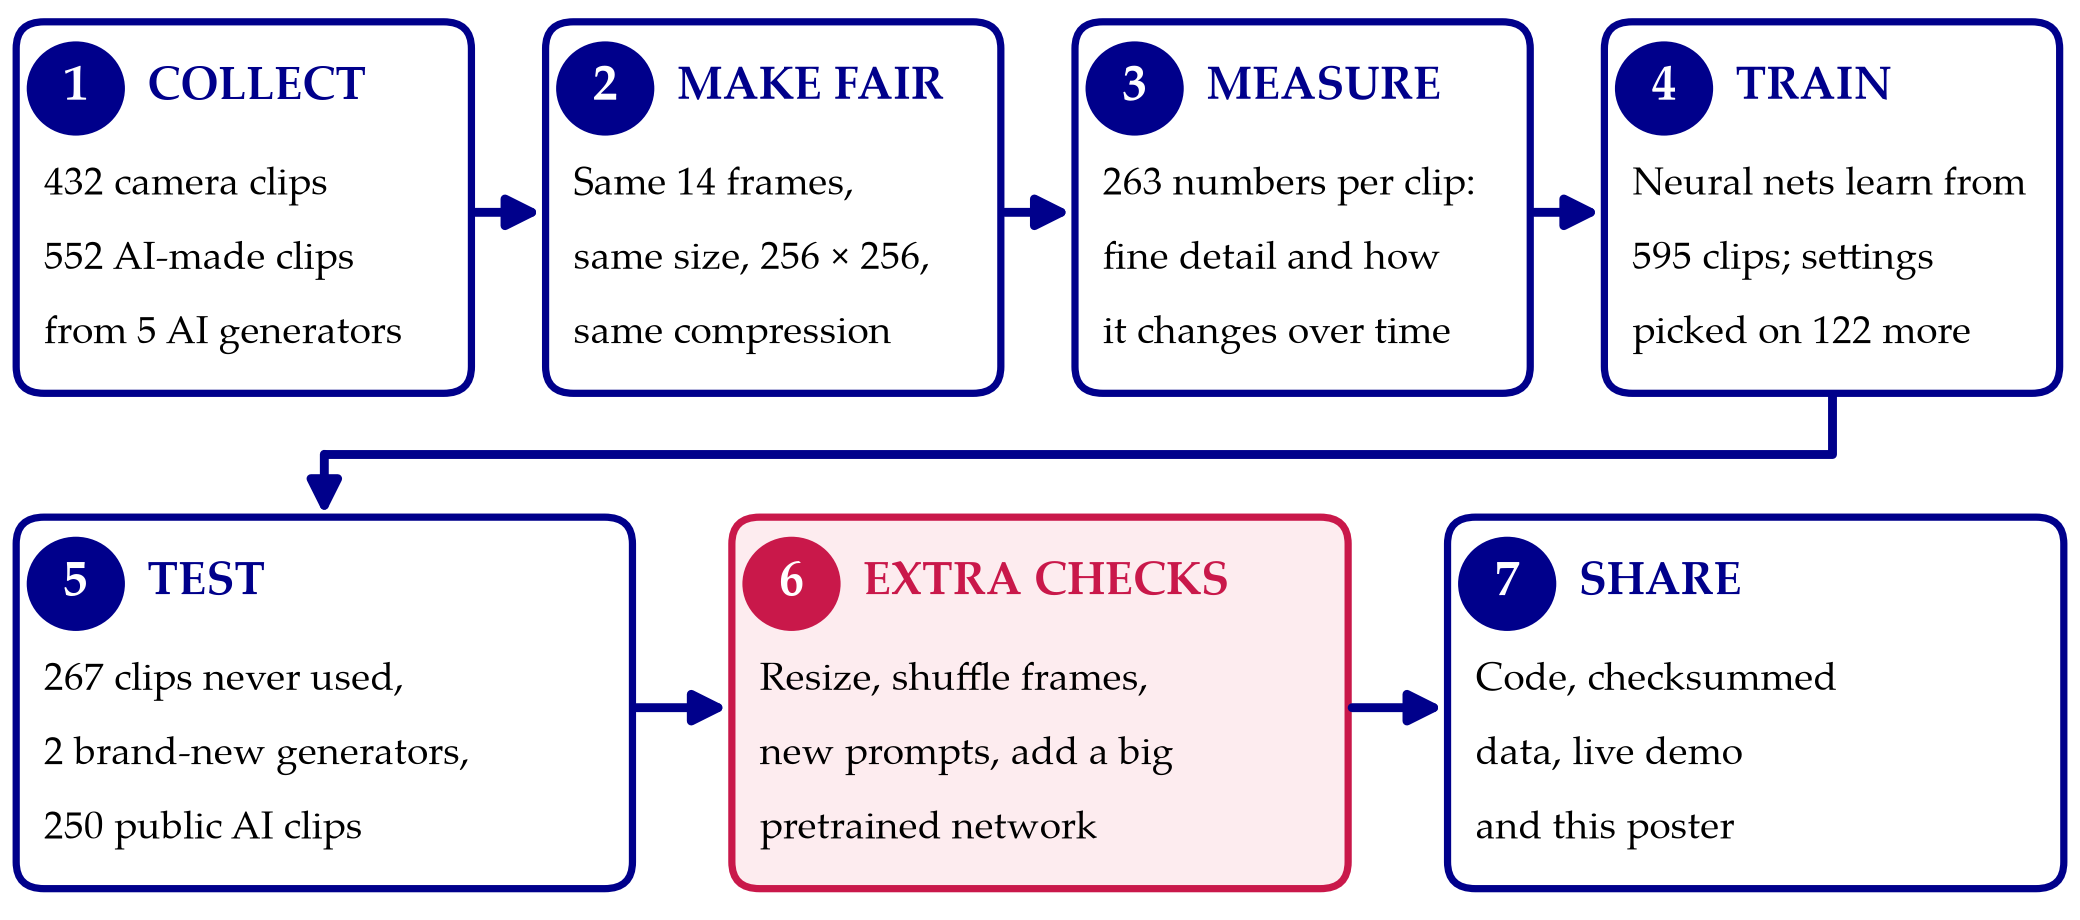
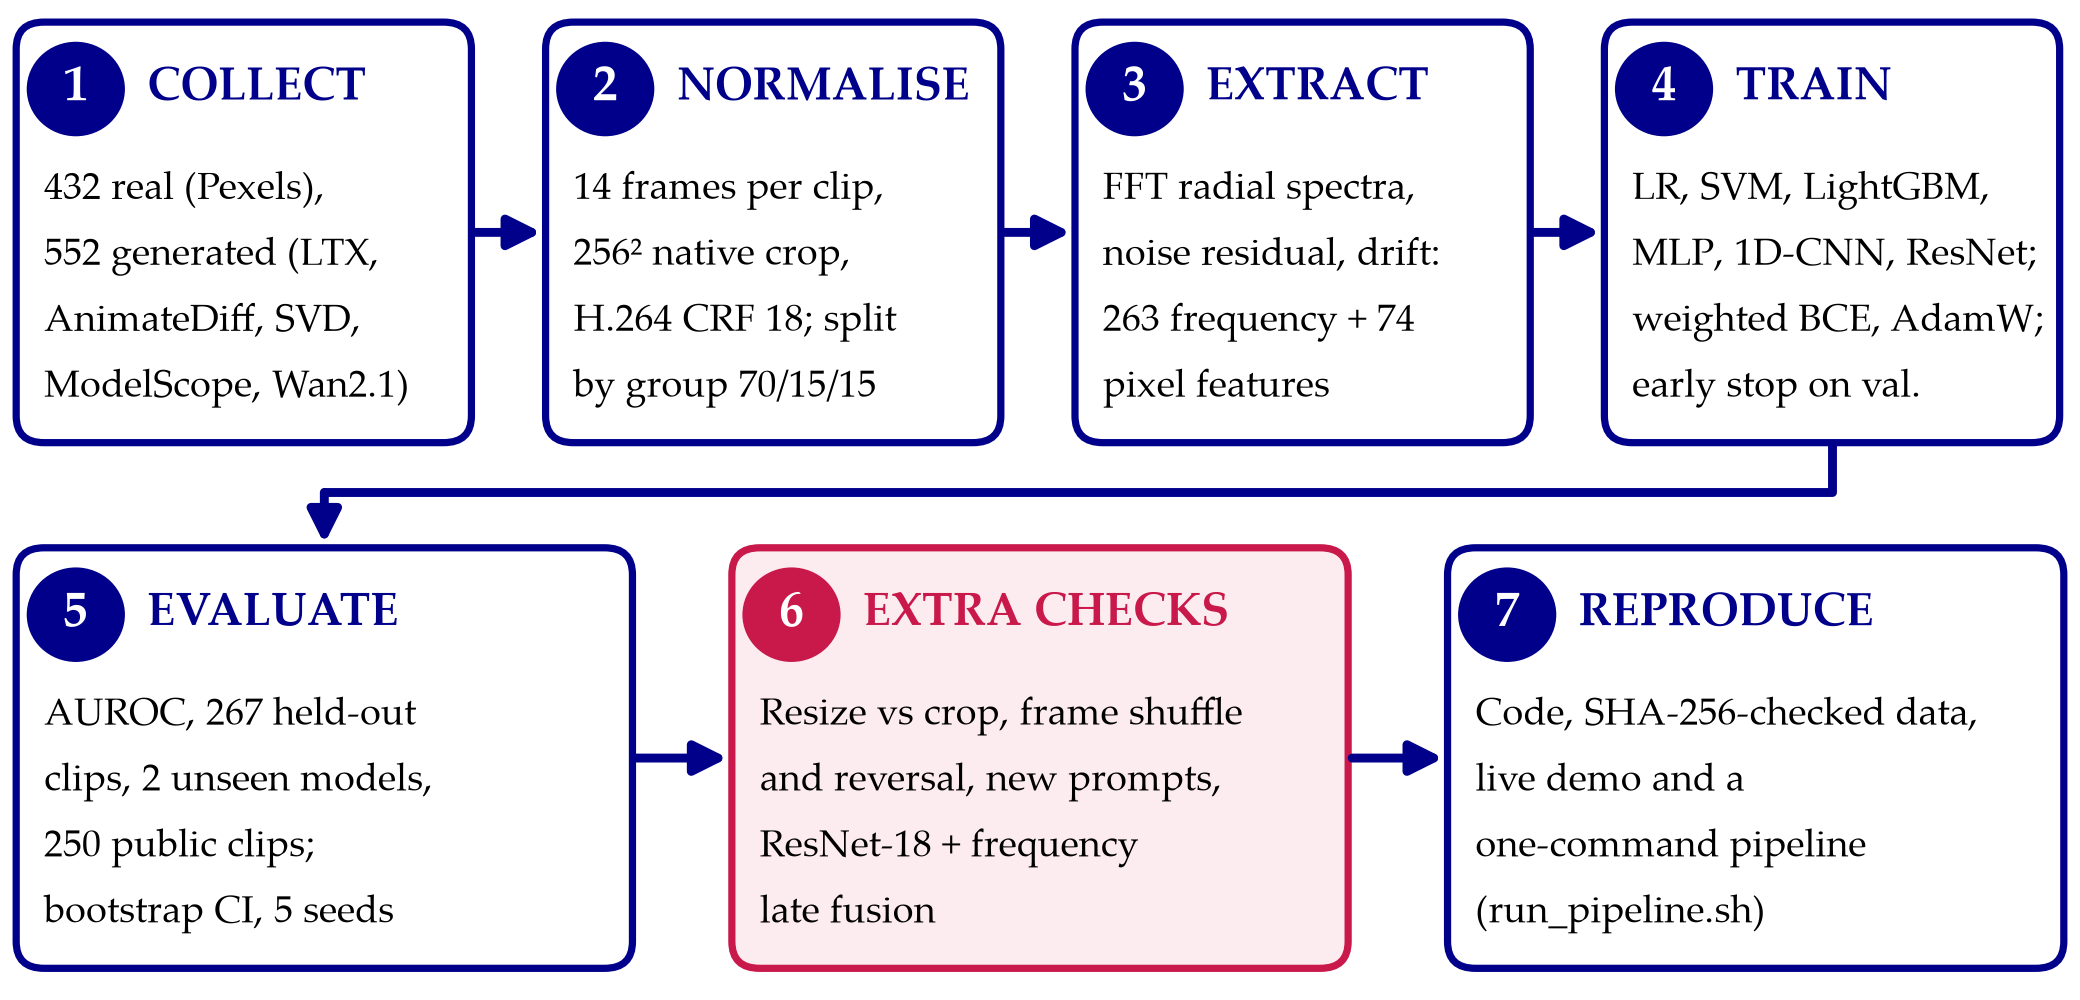
Poster: crisper abstract and key results, technical introduction, Figure 1 explained, contributions removed, more technical workflow

diff --git a/poster/poster.html b/poster/poster.html
@@ -75,47 +75,46 @@
 <div class="col">
 
 <h2>Abstract</h2>
-<p>AI video generators now make clips that look real. Can a computer still tell them from camera video, just by measuring the clip's
-<b>fine detail</b> and <b>how that detail changes from frame to frame</b>? We built a fair test set of 984 clips and compared this
-&ldquo;frequency&rdquo; approach with ordinary pixel statistics and with a large pretrained network. It works well on the generators it
-was trained on, but only partly on new ones.</p>
-<div class="take"><b class="h">Key results</b> (score = AUROC: 1.0 is perfect, 0.5 is a coin flip)
+<p>Generative video models (Sora, Veo, Wan) now produce clips that people cannot reliably tell from camera footage. We test whether two cues,
+the <b>spatial-frequency spectrum</b> of each frame and its <b>frame-to-frame drift</b>, detect diffusion-generated video better than pixel
+statistics. On a controlled set of 984 clips (432 real, 552 from five generators, two generators held out) we compare pixel, frequency and fused
+features on identical held-out clips. Frequency cues win on trained generators (AUROC 0.97 vs 0.89) but transfer only partly to new ones.</p>
+<div class="take"><b class="h">Key results</b>
+<div style="font-size:14pt;margin:0.5mm 0 1mm">AUROC = chance that a random AI clip is scored more &ldquo;AI-like&rdquo; than a random real clip: 1.0 is perfect, 0.5 is guessing.</div>
 <ol>
-<li>On generators we trained on, fine-detail features score <b>0.97</b>, plain pixel statistics <b>0.89</b>.</li>
-<li>On <b>brand-new generators</b> our scores fall to 0.64–0.82; the big pretrained network holds up better (0.90–0.93).</li>
-<li>Our extra tests show the clue is real (it needs real motion) but fragile (resizing or heavy compression erases it).</li>
+<li><b>Frequency beats pixels on trained generators:</b> 0.966 vs 0.889 (both together: 0.977). The gap of +0.075 has a 95 % interval of +0.02 to +0.15, so it is not luck.</li>
+<li><b>Transfer to new generators is only partial:</b> on ModelScope and Wan2.1 (never seen in training) our models score 0.64&ndash;0.82, while a fine-tuned ResNet-18 scores 0.90&ndash;0.93.</li>
+<li><b>The clue is real but fragile:</b> shuffling frames costs the time features 0.14&ndash;0.20, so they use real motion; resizing frames (&minus;0.07 to &minus;0.09) or heavy compression (&minus;0.2 to &minus;0.3) erases it.</li>
 </ol></div>
 
 <h2>Introduction</h2>
 <ul>
-<li><b>The problem:</b> tools like Sora, Veo and Wan make video that people cannot reliably tell from real footage, and a detector built for one generator often fails on the next.</li>
-<li><b>The idea:</b> every picture has coarse detail (big shapes) and fine detail (tiny texture and noise). Generators build video by cleaning up noise step by step, which changes the fine detail. A Fourier transform measures how much detail there is at each scale (Figure 1).</li>
-<li><b>The second clue is time:</b> in camera footage the fine detail changes naturally from frame to frame; generated video may flicker differently.</li>
-<li><b>Why neural networks:</b> these are hundreds of weak clues; a small network learns how to combine them.</li>
+<li><b>Task:</b> binary classification of a short video clip as camera-captured or generated by a diffusion model, from the pixels alone (no metadata, watermark or prompt).</li>
+<li><b>Relevance:</b> text-to-video diffusion models (Sora 2, Veo 3, Kling, Wan) have passed the point where people can reliably tell their output from real footage, and open models (LTX-Video, Wan2.1) put this capability in everyone&rsquo;s hands.</li>
+<li><b>Significance:</b> misinformation, fraud and tampered evidence need detectors. A detector tied to one generator&rsquo;s artefacts fails on the next release, so it must rest on cues that all generators share and be tested on generators it has never seen.</li>
+<li><b>Why frequency:</b> diffusion models synthesise frames by iterative denoising and up-sampling, which leaves systematic traces in the power spectrum (excess or missing energy at high spatial frequencies) and in how the spectrum drifts between frames (Figure 1) [1&ndash;5].</li>
+<li><b>Why deep learning:</b> the traces are spread over hundreds of weak, correlated features, and no hand-written rule separates them. Networks learn the decision boundary from data: an MLP on 263 spectral features and a 1D-CNN on the 2 &times; 14 &times; 48 radial-spectrum sequence, against pixel-statistics models and a fine-tuned ResNet-18 as baselines.</li>
 </ul>
-<figure>
-<img src="figs/fig_spectra.png" style="width:128mm">
-<figcaption><b>Figure 1:</b> Average &ldquo;detail map&rdquo; (Fourier spectrum) of 40 clips per source. Top left: real clips. The others show how each AI generator differs from real: blue = less fine detail than real, red = more. Each generator leaves its own fingerprint (* = never used in training).</figcaption>
-</figure>
-<p>Our contributions:</p>
-<ul>
-<li>A <b>fair dataset</b>: real and AI clips are cut and compressed identically, so only their origin differs.</li>
-<li>A <b>head-to-head test</b> of pixel, fine-detail and combined features on the same unseen clips, with error ranges.</li>
-<li><b>Four extra stress tests</b>, two of which gave negative results.</li>
-<li><b>Everything re-runs</b>: code, checksummed data and a live demo.</li>
-</ul>
+<div style="display:grid;grid-template-columns:128mm 1fr;column-gap:4mm;align-items:start;margin-bottom:1mm">
+<figure style="margin:0"><img src="figs/fig_spectra.png" style="width:128mm">
+<figcaption><b>Figure 1:</b> Mean log-power spectrum of real clips (top left) and each generator&rsquo;s difference from it. * = never seen in training.</figcaption></figure>
+<div style="font-size:14.2pt;line-height:1.25">
+<b>How it is made.</b> Per clip: 4 frames, greyscale, mean removed, Hann window, 2-D FFT, log power, zero frequency shifted to the centre (distance from centre = scale of detail, direction = orientation of texture). Averaged over 40 random clips per source; generator panels subtract the real average.<br>
+<b>What it shows.</b> Blue: the generator has <i>less</i> energy than real footage at that frequency; red: <i>more</i>. Each generator has its own fingerprint: LTX-Video a regular dot grid (a periodic artefact, plausibly from up-sampling), ModelScope extra high-frequency energy, Wan2.1 and SVD a deficit.<br>
+<b>Why it matters.</b> The differences make the spectrum a usable signal; their variety explains why a detector trained on some generators transfers only partly to others.
+</div></div>
 
 <h2>Workflow</h2>
 <p>Figure 2 shows the seven steps, from collecting clips to sharing the code.</p>
 <figure>
-<img src="figs/fig_workflow.png" style="width:214mm">
+<img src="figs/fig_workflow.png" style="width:216mm">
 <figcaption><b>Figure 2:</b> Overall workflow. Step 6 (red) is the novelty assessment.</figcaption>
 </figure>
 
 <h2>Methodology</h2>
 <p>Figure 3 follows one clip through the system. Two groups of numbers are measured, and a small neural network turns them into the chance that the clip is AI-made.</p>
 <figure>
-<img src="figs/fig_architecture.png" style="width:212mm">
+<img src="figs/fig_architecture.png" style="width:198mm">
 <figcaption><b>Figure 3:</b> Overall architecture, with the real curves of one test clip.</figcaption>
 </figure>
 <ul>

diff --git a/tools/poster_diagrams.py b/tools/poster_diagrams.py
@@ -42,24 +42,24 @@ def _save(fig, name):
 
 
 def workflow():
-    """Figure 2: the seven steps, in plain words."""
+    """Figure 2: the seven steps."""
     _style()
-    fig, ax = plt.subplots(figsize=(10.4, 4.6))
+    fig, ax = plt.subplots(figsize=(10.4, 5.0))
     fig.subplots_adjust(0.003, 0.003, 0.997, 0.997)
-    ax.set_xlim(0, 104); ax.set_ylim(0, 48); ax.axis("off")
+    ax.set_xlim(0, 104); ax.set_ylim(0, 52); ax.axis("off")
     steps = [
-        ("1", "COLLECT", ["432 camera clips", "552 AI-made clips", "from 5 AI generators"]),
-        ("2", "MAKE FAIR", ["Same 14 frames,", "same size, 256 × 256,", "same compression"]),
-        ("3", "MEASURE", ["263 numbers per clip:", "fine detail and how", "it changes over time"]),
-        ("4", "TRAIN", ["Neural nets learn from", "595 clips; settings", "picked on 122 more"]),
-        ("5", "TEST", ["267 clips never used,", "2 brand-new generators,", "250 public AI clips"]),
-        ("6", "EXTRA CHECKS", ["Resize, shuffle frames,", "new prompts, add a big", "pretrained network"]),
-        ("7", "SHARE", ["Code, checksummed", "data, live demo", "and this poster"]),
+        ("1", "COLLECT", ["432 real (Pexels),", "552 generated (LTX,", "AnimateDiff, SVD,", "ModelScope, Wan2.1)"]),
+        ("2", "NORMALISE", ["14 frames per clip,", "256² native crop,", "H.264 CRF 18; split", "by group 70/15/15"]),
+        ("3", "EXTRACT", ["FFT radial spectra,", "noise residual, drift:", "263 frequency + 74", "pixel features"]),
+        ("4", "TRAIN", ["LR, SVM, LightGBM,", "MLP, 1D-CNN, ResNet;", "weighted BCE, AdamW;", "early stop on val."]),
+        ("5", "EVALUATE", ["AUROC, 267 held-out", "clips, 2 unseen models,", "250 public clips;", "bootstrap CI, 5 seeds"]),
+        ("6", "EXTRA CHECKS", ["Resize vs crop, frame shuffle", "and reversal, new prompts,", "ResNet-18 + frequency", "late fusion"]),
+        ("7", "REPRODUCE", ["Code, SHA-256-checked data,", "live demo and a", "one-command pipeline", "(run_pipeline.sh)"]),
     ]
     w1, g1 = 22.9, 3.73
     w2, g2 = 31.0, 5.0
-    pos = [(0.5 + i * (w1 + g1), 27.5, w1) for i in range(4)] + [(0.5 + i * (w2 + g2), 1.5, w2) for i in range(3)]
-    h = 19.5
+    h = 22.0
+    pos = [(0.5 + i * (w1 + g1), 29.0, w1) for i in range(4)] + [(0.5 + i * (w2 + g2), 1.5, w2) for i in range(3)]
     for (n, title, lines), (x, y, w) in zip(steps, pos):
         hot = title == "EXTRA CHECKS"
         col = RED if hot else NAVY
@@ -68,17 +68,17 @@ def workflow():
         ax.text(x + 3.0, y + h - 3.5, n, color="white", ha="center", va="center", fontsize=18, fontweight="bold")
         ax.text(x + 6.6, y + h - 3.5, title, ha="left", va="center", fontsize=16.5, fontweight="bold", color=col)
         for k, line in enumerate(lines):
-            ax.text(x + 1.4, y + h - 8.6 - k * 3.9, line, ha="left", va="center", fontsize=14.2)
+            ax.text(x + 1.4, y + h - 8.8 - k * 3.45, line, ha="left", va="center", fontsize=13.6)
     for i in range(3):
         x0, _, w = pos[i]
-        _arrow(ax, (x0 + w + 0.2, 37), (pos[i + 1][0] - 0.2, 37))
+        _arrow(ax, (x0 + w + 0.2, 40), (pos[i + 1][0] - 0.2, 40))
     for i in range(4, 6):
         x0, _, w = pos[i]
-        _arrow(ax, (x0 + w + 0.2, 11), (pos[i + 1][0] - 0.2, 11))
+        _arrow(ax, (x0 + w + 0.2, 12.5), (pos[i + 1][0] - 0.2, 12.5))
     x3, _, w3 = pos[3]
     cx = pos[4][0] + pos[4][2] / 2
-    ax.plot([x3 + w3 / 2, x3 + w3 / 2, cx], [27.5, 24.3, 24.3], color=NAVY, lw=3.2, solid_capstyle="butt")
-    _arrow(ax, (cx, 24.3), (cx, 21.1))
+    ax.plot([x3 + w3 / 2, x3 + w3 / 2, cx], [29.0, 26.4, 26.4], color=NAVY, lw=3.2, solid_capstyle="butt")
+    _arrow(ax, (cx, 26.4), (cx, 23.7))
     _save(fig, "fig_workflow.png")
 
 

diff --git a/tools/make_poster_figures.py b/tools/make_poster_figures.py
@@ -127,6 +127,10 @@ def spectra():
     fig, axs = plt.subplots(2, 3, figsize=(COL, 4.4))
     axs = axs.ravel()
     axs[0].imshow(means["real"], cmap="magma"); axs[0].set_title("Real", fontsize=17)
+    axs[0].annotate("coarse\nstructure", xy=(128, 128), xytext=(128, 200), color="white", ha="center", fontsize=12,
+                    arrowprops=dict(arrowstyle="->", color="white", lw=1.6))
+    axs[0].annotate("fine\ndetail", xy=(252, 128), xytext=(212, 50), color="white", ha="center", fontsize=12,
+                    arrowprops=dict(arrowstyle="->", color="white", lw=1.6))
     allv = np.concatenate([(means[g] - means["real"]).ravel() for g in names])
     v = np.percentile(np.abs(allv), 99)
     for ax, g in zip(axs[1:], names):
